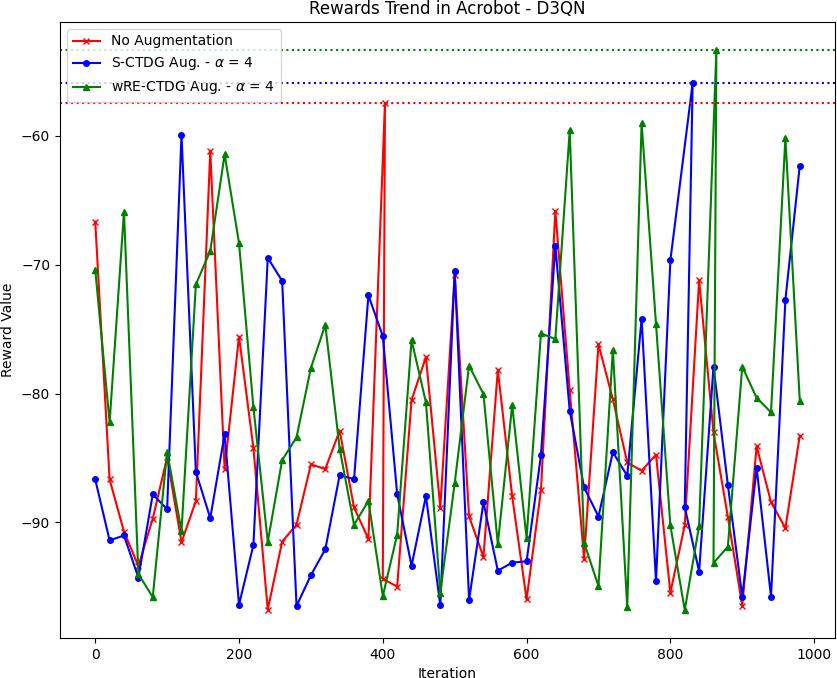
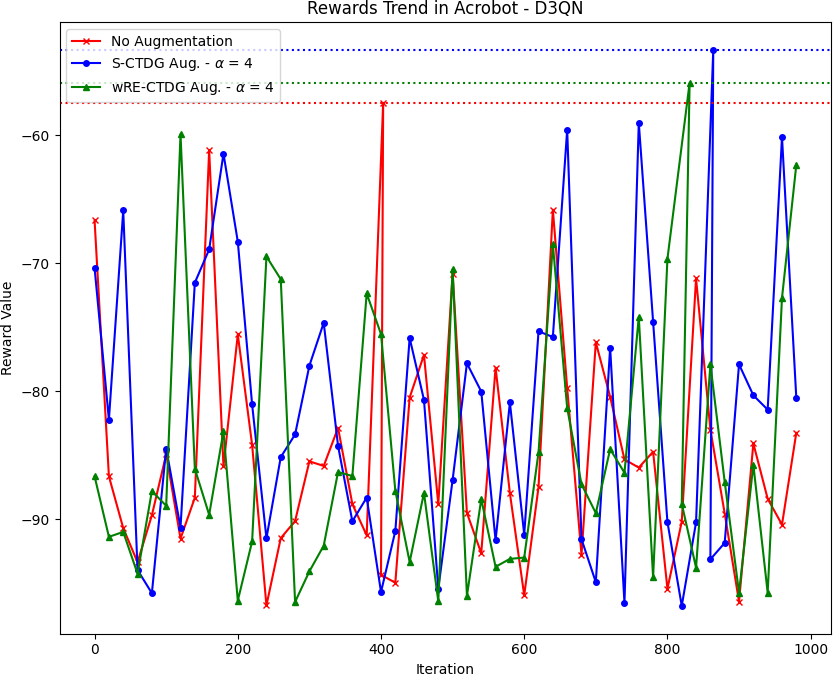
Added experimental setup section

diff --git a/chapters/ch5.tex b/chapters/ch5.tex
@@ -19,9 +19,9 @@ The experiments were implemented using the following software stack:
 \begin{itemize}
     \item Operating System: Windows 11 Pro
     \item Python: 3.10.14
-    \item PyTorch: 2.3.0
+    \item PyTorch: 2.4.0
     \item CUDA: 12.0
-    \item TorchRL: 0.4.0
+    \item TorchRL: 0.5.0
     \item MuJoCo: 3.14
 \end{itemize}
 
@@ -204,11 +204,11 @@ Critic:
 The actor and critic networks are modelled after
 the architectures presented in \cite{lillicrap2019}. 
 
-\section{Training Process Details}
+\section{Experimental Setup}
 
-\subsection{Dataset Generation}
+\subsection{Dataset Collection}
 
-For each environment, we generated a dataset of transitions using a random policy.
+For each environment, we collected a dataset of transitions using a random policy.
 This dataset served as the basis for our counterfactual
 data generation and reinforcement learning experiments.
 
@@ -219,6 +219,17 @@ The number of transitions in the dataset was different for each environment:
     \item Ant: 50'000 transitions, observation stack length: 4
     \item Diabetes: 100 transitions, observation stack length: 1
 \end{itemize} 
+
+\subsection{Convolutional AutoEncoder Training}
+
+We trained the CAE with each one of the three different image-based
+environments: Acrobot, Half Cheetah, and Ant.
+For this task we employed the Adam optimizer
+(Learning Rate: $1\times 10^{-4}$, $\beta_1$: 0.5, $\beta_2$: 0.9)
+and a batch size of 128. The model was trained for 10'000 iterations
+on the combined dataset from all three environments. We used the standard
+MSE loss for the reconstruction error with a weight mask
+to give less importance to the background pixels.
 
 \subsection{Counterfactual Data Generation}
 
@@ -245,52 +256,47 @@ Size of the augmented datasets:
     \item Diabetes: 20 $\times \, \delta =$ 160 transitions
 \end{itemize}
 
+We measured the Mean Absolute Error (MAE) on a validation set
+between the generated counterfactual states and the ground truth
+states after the training of WRe-CTDG (comparison between encoded values)
+and S-CTDG (comparison between images) frameworks.
 
 \subsection{Reinforcement Learning Training}
 
 We trained D3QN and TD3 algorithms on both the original and augmented datasets.
 The training process involved:
-
 \begin{itemize}
     \item Number of training steps: 1'000 for Acrobot, 2'000 for Half Cheetah, 3'000 for Ant, 8'000 for Diabetes
     \item Batch size: 256
     \item Discount factor ($\gamma$): 0.99
-    \item Optimizer: Adam (learning rate: $1\times 10^{-4}$, $\beta_1$: 0.0, $\beta_2$: 0.9)
+    \item Optimizer: Adam (Learning Rate: $1\times 10^{-4}$, $\beta_1$: 0.0, $\beta_2$: 0.9)
     \item Exploration strategy: $\epsilon$-greedy with decay factor $\tau = 0.005$
 \end{itemize}
+Training progress was monitored through periodic evaluations
+of the policy within the environment.
+The evaluation metric employed for comparisons was the best
+reward achieved over all evaluation episodes. 
 
 \section{Results}
 
-\subsection{Training the Variational Autoencoder}
-
-We trained the VAE with each one of the three different image-based
-environments: Acrobot, Half Cheetah, and Ant.
-
-We trained the VAE using the Adam optimizer (learning rate: $1\times 10^{-4}$, $\beta_1$: 0.5, $\beta_2$: 0.9)
-and a batch size of 128. The model was trained for 10'000 iterations
-on the combined dataset from all three environments. We used the standard
-MSE loss for the reconstruction error with a weight mask
-to give less importance to the background pixels.
-
+\subsection{Convolutional Autoencoder Results}
 
 Table \ref{tab:reconstruction_mse} presents the mean squared error (MSE) of the reconstruction loss for each environment after training:
 
 \begin{table}[h]
     \centering
-    \begin{tabular}{|l|c|}
-        \hline
-        \textbf{Environment} & \textbf{Reconstruction MSE} \\
-        \hline
-        Acrobot     & 1.364 \\
-        Half Cheetah & 13.539 \\
-        Ant         & 14.294 \\
-        \hline
+    \begin{tabular}{@{}lc@{}}
+        \toprule
+        \textbf{Environment} & \textbf{Reconstruction MSE} \\ \midrule
+        Acrobot              & 1.364                       \\
+        Half Cheetah         & 13.539                      \\
+        Ant                  & 14.294                      \\ \bottomrule
     \end{tabular}
     \caption{Mean Squared Error (MSE) of reconstruction loss for each environment}
     \label{tab:reconstruction_mse}
 \end{table}
 
-The VAE achieved a significantly lower reconstruction error on
+The CAE achieved a significantly lower reconstruction error on
 the Acrobot environment compared to Half Cheetah and Ant.
 This substantial difference in reconstruction capability is likely due
 to the simpler visual structure of Acrobot, while Half Cheetah and Ant
@@ -304,31 +310,30 @@ is visually demonstrated in Figures \ref{fig:half_cheetah_recon} and
 
 \begin{figure}[h]
     \centering
-    \includegraphics[width=.8\textwidth]{figures/ch5/ae_acrobot.png}
+    \includegraphics[width=.6\textwidth]{figures/ch5/ae_acrobot.png}
     \caption{Acrobot Reconstruction}
     \label{fig:acrobot_recon}
 \end{figure}
 
 \begin{figure}[h]
     \centering
-    \includegraphics[width=.8\textwidth]{figures/ch5/ae_half_cheetah.png}
+    \includegraphics[width=.6\textwidth]{figures/ch5/ae_half_cheetah.png}
     \caption{Half Cheetah Reconstruction}
     \label{fig:half_cheetah_recon}
 \end{figure}
 
 \begin{figure}[h]
     \centering
-    \includegraphics[width=.8\textwidth]{figures/ch5/ae_ant.png}
+    \includegraphics[width=.6\textwidth]{figures/ch5/ae_ant.png}
     \caption{Ant Reconstruction}
     \label{fig:ant_recon}
 \end{figure}
 
-
-These results indicate that while the VAE successfully learned to
+These results indicate that while the CAE successfully learned to
 encode and reconstruct images from all three environments,
 its performance varied significantly across them. The high
 reconstruction errors and poor visual quality for Half Cheetah
-and Ant suggest that the current VAE architecture may not be
+and Ant suggest that the current CAE architecture may not be
 optimal for capturing the complex visual features of these environments.
 This limitation, as we will see, could have potentially impacted the effectiveness
 of using these learned latent representations in the subsequent reinforcement
@@ -336,24 +341,24 @@ learning algorithms, particularly for the more visually complex environments.
 
 \subsection{Reconstruction Loss During Generation}
 
-We measured the Mean Absolute Error (MAE) on a validation set
+The MAE values on the validation sets
 between the generated counterfactual states and the ground truth
-states after the training of WRe-CTDG (comparison between encoded values)
-and S-CTDG (comparison between images) frameworks
-as shown in Table \ref{tab:mae}.
+states for both frameworks
+are shown in Table \ref{tab:mae}.
 
 \begin{table}[h]
-\centering
-\begin{tabular}{@{}lcc@{}}
+    \centering
+    \begin{tabular}{@{}lcccc@{}}
     \toprule
-    \textbf{Environment} & \textbf{WRe-CTDG MAE} & \textbf{S-CTDG MAE} \\ \midrule
-    Acrobot              & 0.25189               & 0.00147             \\
-    Half Cheetah         & 0.22064               & 0.03946             \\
-    Ant                  & 0.27296               & 0.09391             \\
-    Diabetes             & 0.05602               & 0.12710             \\ \bottomrule
+    \multicolumn{1}{c}{\multirow{2}{*}{\textbf{Environment}}} & \multicolumn{2}{c}{\textbf{WRe-CTDG MAE}}   & \multicolumn{2}{c}{\textbf{S-CTDG MAE}}     \\ \cmidrule(l){2-5} 
+    \multicolumn{1}{c}{}                                      & \textit{States Loss} & \textit{Reward Loss} & \textit{States Loss} & \textit{Reward Loss} \\ \midrule
+    Acrobot                                                   & 0.25189              & 0.04523              & 0.00147              & 0.04821              \\
+    Half Cheetah                                              & 0.22064              & 0.06564              & 0.03946              & 0.05912              \\
+    Ant                                                       & 0.27296              & 0.06289              & 0.09391              & 0.07071              \\
+    Diabetes                                                  & 0.24343              & 0.07265              & 0.12710              & 0.07582              \\ \bottomrule
     \end{tabular}
-\caption{WRe-CTDG and S-CTDG Reconstruction Loss}
-\label{tab:mae}
+    \caption{WRe-CTDG and S-CTDG Reconstruction Loss}
+    \label{tab:mae}
 \end{table}
 
 The S-CTDG framework demonstrates superior reconstruction
@@ -363,13 +368,6 @@ To visually illustrate these reconstruction capabilities, we present a
 series of figures comparing original images to their S-CTDG reconstructions
 for each environment.
 
-\begin{figure}[h]
-    \centering
-    \includegraphics[width=\textwidth]{figures/ch5/e2e_acro.png}
-    \caption{S-CTDG results for the Acrobot environment}
-    \label{fig:acrobot_recon}
-\end{figure}
-
 Figure \ref{fig:acrobot_recon} showcases the S-CTDG reconstruction
 for the Acrobot environment. The remarkably low MAE
 is reflected in the near-perfect visual fidelity of the reconstructed image,
@@ -377,9 +375,9 @@ with virtually no discernible differences from the original.
 
 \begin{figure}[h]
     \centering
-    \includegraphics[width=\textwidth]{figures/ch5/e2e_half.png}
-    \caption{S-CTDG results for the Half Cheetah environment}
-    \label{fig:half_cheetah_recon}
+    \includegraphics[width=\textwidth]{figures/ch5/e2e_acro.png}
+    \caption{S-CTDG results for the Acrobot environment}
+    \label{fig:acrobot_recon}
 \end{figure}
 
 The Half Cheetah environment reconstruction,
@@ -389,11 +387,11 @@ With an MAE of 0.03946, the reconstruction still maintains
 the overall structure and positioning of the ant, with some loss of
 sharpness in the finer details of the legs and joints.
 
-\begin{figure}[h]
+\begin{figure}[H]
     \centering
-    \includegraphics[width=\textwidth]{figures/ch5/e2e_ant.png}
-    \caption{S-CTDG results for the Ant environment}
-    \label{fig:ant_recon}
+    \includegraphics[width=\textwidth]{figures/ch5/e2e_half.png}
+    \caption{S-CTDG results for the Half Cheetah environment}
+    \label{fig:half_cheetah_recon}
 \end{figure}
 
 Figure \ref{fig:ant_recon} illustrates the S-CTDG reconstruction
@@ -402,21 +400,31 @@ to the previous environments, the reconstruction still captures
 the essential features of the ant's body and limbs, albeit with
 some loss of detail and sharpness.
 
-For the Diabetes environment, as it doesn't involve image data, we do not provide a visual representation. However, it's worth noting that this is the only environment where WRe-CTDG outperforms S-CTDG in terms of MAE, likely due to the non-visual nature of the data.
+\begin{figure}[H]
+    \centering
+    \includegraphics[width=\textwidth]{figures/ch5/e2e_ant.png}
+    \caption{S-CTDG results for the Ant environment}
+    \label{fig:ant_recon}
+\end{figure}
+
+For the Diabetes environment, as it doesn't involve image data,
+we do not provide a visual representation. However, it's worth noting
+that this is the only environment where WRe-CTDG outperforms S-CTDG
+in terms of MAE, likely due to the non-visual nature of the data.
 
 \subsection{Reinforcement Learning Performance}
 
 We evaluated the performance of D3QN and TD3 algorithms on both the
 original and augmented datasets. The results are presented
-in \ref{tab:rl_reward}: the reward value shown is the best reward
+in Table \ref{tab:rl_reward}: the reward value shown is the best reward
 over all the evaluation episodes.
 
-\begin{table}[h]
+\begin{table}[H]
     \centering
     \begin{tabular}{@{}llccc@{}}
         \toprule
         \textbf{Environment} & \textbf{Algorithm} & \textbf{No Aug.} & \textbf{WRe-CTDG Aug.} & \textbf{S-CTDG Aug.} \\ \midrule
-        Acrobot              & D3QN               & -57.47           & -53.35                 & -55.90               \\
+        Acrobot              & D3QN               & -57.47           & -55.90                 & -53.35               \\
         Half Cheetah         & TD3                & 8.19             & 74.13                  & 256.09                \\
         Ant                  & TD3                & 27.06            & 25.28                  & 168.54                 \\
         Diabetes             & D3QN               & 0.04             & 0.06                   & 0.12                   \\ \bottomrule
@@ -432,7 +440,7 @@ Figure \ref{fig:rew_cheetah},
 the trends of reward values for the Ant environment
 are shown in Figures \ref{fig:rew_ant} and,
 at last, the reward trends for the Diabetes environment are shown in
-Figures \ref{fig:rew_diabetes}
+Figures \ref{fig:rew_diabetes}.
 
 \begin{figure}[H]
     \centering

diff --git a/chapters/ch4.tex b/chapters/ch4.tex
@@ -156,7 +156,7 @@ toolkit and based on the work of \cite{sutton1998}.
 Its inclusion provides
 a contrast to the more complex MuJoCo environments and
 allows us to test our methods on a wider range of
-control problems.piop
+control problems.
 
 In these robotics environments, we can consider
 various SCMs
@@ -498,7 +498,7 @@ Given this, the ``no unmeasured confounding'' assumption
 hold in this case.
 
 The return value given to the RL agent in this environment
-is the negative value of \( Y \) at the end of the simulation.
+is the reciprocal value of \( Y \) at the end of the simulation.
 
 This dataset captures key aspects of diabetes treatment, including:
 \begin{itemize}
@@ -542,7 +542,7 @@ the training of offline DRL agents.
 \subsection{Wasserstein Reward-enhanced CounTerfactual\\ Data Generation}
 \label{sec:wre}
 
-The first approach, called Wasserstein Reward-enhanced Counterfactual Data Generation
+The first approach, called \textbf{Wasserstein Reward-enhanced CounTerfactual Data Generation}
 (WRe-CTDG),
 focuses on inferring the Structural Causal Model
 (SCM) from the available data \( \mathcal{D} \) and simultaneously learning
@@ -796,7 +796,7 @@ algorithm, such as D3QN or TD3.
                 \If{CAE is used}{
                     $\hat{s}'_{t+1} \gets \text{decode last generated image in }\hat{s}'_{t+1} \text{ : } \, D_s(\hat{s}'_{t+1})$ \\ 
                 }
-                Insert $T' = (s_t, \hat{s}'_{t+1}, a'_t, \hat{r}_{t+1})$ in $B'$ \\
+                Insert $T' = (s_t, \hat{s}'_{t+1}, a'_t, \hat{r}'_{t+1})$ in $B'$ \\
             }
     
         Insert $B'$ in $\mathcal{D}'$ \\
@@ -811,18 +811,17 @@ algorithm, such as D3QN or TD3.
 \subsection{Supervised CounTerfactual Data Generation}
 \label{sec:sctdg}
 
-The second approach, called Supervised Counterfactual Data Generation (S-CTDG),
+The second approach, which is called \textbf{Supervised CounTerfactual Data Generation} (S-CTDG),
 assumes that the noise in the system is known
 in the training phase and focuses on directly collecting
 counterfactual states.
 
-This approach shifts the problem towards creating the most
-accurate and representative simulator, enhancing the
-realism and diversity of the generated experiences.
-It is particularly useful when there is access to detailed
-knowledge about the noise in the system,
-even in just a subset of the available data, enabling a more
-precise simulation of the environment.
+This approach is particularly useful when there is access to detailed
+knowledge about the noise in a subset of the available data,
+enabling a more precise simulation of the environment.
+The key condition is that the rest of the dataset with unobserved
+variables should exhibit similar noise behavior, allowing the model
+to generalize effectively.
 
 \begin{figure}[ht]
     \centering

diff --git a/chapters/ch1.tex b/chapters/ch1.tex
@@ -83,7 +83,7 @@ The following chapters are organized as follows:
     in Offline Reinforcement Learning, Data Augmentation and Generation Techniques,
     and Counterfactual Reasoning in Data Generation.
     \item In \textbf{Chapter 3}, we introduce the theoretical foundations
-    of the tecnologies used in our proposed frameworks,
+    of the technologies used in our proposed frameworks,
     including Structural Causal Models,
     Generative Adversarial Networks,
     and Deep Reinforcement Learning algorithms.

diff --git a/template-unipg.tex b/template-unipg.tex
@@ -51,6 +51,7 @@
 \usepackage{comment}
 \usepackage[super]{nth}
 \usepackage{booktabs}
+\usepackage{multirow}
 
 % -----------------------------------------------------------------
 
